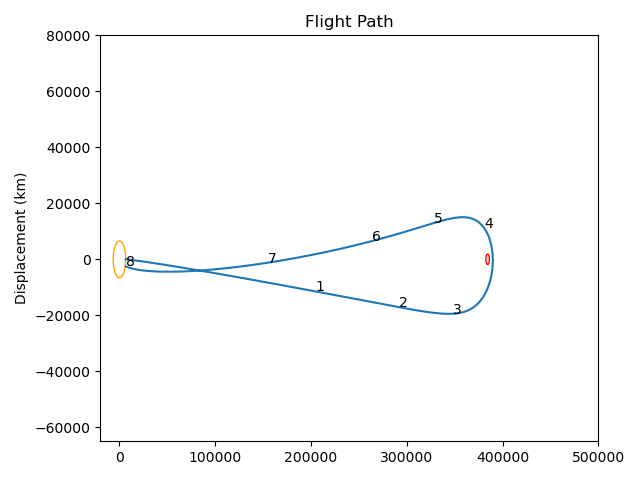
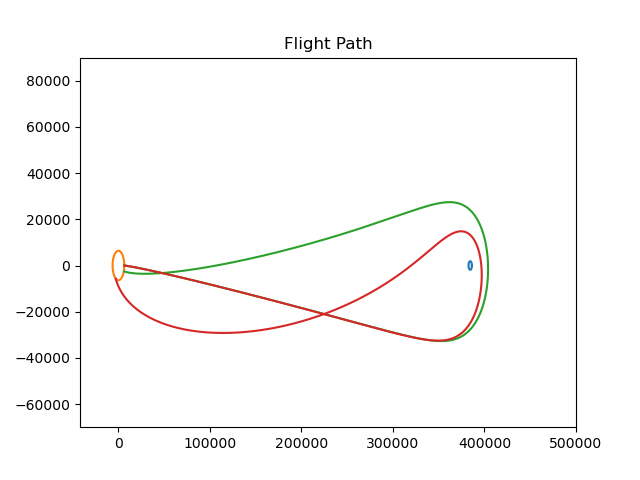
First Commit

diff --git a/part2.py b/part2.py
@@ -1,136 +1,158 @@
-import math
 import matplotlib.pyplot as plt
-
-from matplotlib import rcParams
-
-rcParams.update({'figure.autolayout': True})
+import numpy as np
 
 plt.dpi = 500
 
-G = 8.65e-13
-M_EARTH = 5.97e24
-M_MOON = 7.35e22
-D_ME = 384400
-R_MOON = 1737.1
-LAGRANGE_POINT = 346007.85
+constants = {
+    'GRAVITY': 8.65e-13,
+    'MASS_OF_EARTH': 5.97e24,
+    'MASS_OF_MOON': 7.35e22,
+    'DISTANCE_MOON_TO_EARTH': 384400,
+    'RADIUS_MOON': 1737.1,
+    'LAGRANGE_POINT': 346007.85,
+    'Gm_E': 5.16405000e12,
+    'Gm_M': 6.3577500e10,
+    'RADIUS_OF_EARTH': 6378}
 
 
 class Function:
-    def __init__(self, start_value_x, start_value_y, step_size, dydx_x, dydx_y, dydx_start_x, dydx_start_y,
-                 target_value_x, target_value_y):
-        self.start_value_x = start_value_x
-        self.start_value_y = start_value_y
+    def __init__(self, start_value, step_size, dydx, dydx_start, target_value):
+        self.start_value = start_value
         self.step_size = step_size
-        self.dydx_x = dydx_x
-        self.dydx_y = dydx_y
-        self.dydx_start_x = dydx_start_x
-        self.dydx_start_y = dydx_start_y
-        self.target_value_x = target_value_x
-        self.target_value_y = target_value_y
-
-        self.current_value_x = self.start_value_x
-        self.current_value_y = self.start_value_y
-
-        self.dydx_current_value_x = self.dydx_start_x
-        self.dydx_current_value_y = self.dydx_start_y
-
-        self.time_history = []
-        self.displacement_history_x = []
-        self.displacement_history_y = []
-        self.displacement_history_total = []
-        self.velocity_history = []
-        self.acceleration_history = []
-        self.max_displacement_x = 0
+        self.dydx = dydx
+        self.dydx_start = dydx_start
+        self.dydx_current_value = dydx_start
+        self.target_value = target_value
+        self.current_value = start_value
 
     def euler(self):
-        self.displacement_history_total.append(math.sqrt(self.current_value_x ** 2 + self.current_value_y ** 2))
-        self.current_value_x += self.step_size * self.dydx_current_value_x
-        self.current_value_y += self.step_size * self.dydx_current_value_y
+        self.current_value += self.step_size * self.dydx_current_value + 0.5 * (self.step_size ** 2) * self.dydx(
+            self.current_value)
+
+    # print(self.current_value)
 
     def velocity(self):
-        self.velocity_history.append(math.sqrt(self.dydx_current_value_x ** 2 + self.dydx_current_value_y ** 2))
-        self.acceleration_history.append(math.sqrt(
-            self.dydx_x(self.current_value_x, self.current_value_y) ** 2 + self.dydx_y(self.current_value_x,
-                                                                                       self.current_value_y) ** 2))
-        self.dydx_current_value_x += self.step_size * self.dydx_x(self.current_value_x, self.current_value_y)
-        self.dydx_current_value_y += self.step_size * self.dydx_y(self.current_value_x, self.current_value_y)
+        self.dydx_current_value += self.step_size * self.dydx(self.current_value)
 
     def target_in_range(self):
-        for i in range(250000):
-            self.displacement_history_x.append(self.current_value_x)
-            self.displacement_history_y.append(self.current_value_y)
-            if self.current_value_x > self.max_displacement_x:
-                self.max_displacement_x = self.current_value_x
-            if self.current_value_x <= self.target_value_x and self.current_value_y <= self.target_value_y and self.max_displacement_x >= D_ME:
-                return self.current_value_x, self.current_value_y, i / 1000, self.dydx_current_value_x, self.dydx_current_value_y
-            self.time_history.append(i / 1000)
+        for i in range(1000000):
+            if self.current_value >= self.target_value:
+                return self.current_value, i / 1000, self.dydx_current_value, self.target_value, self.dydx(
+                    self.current_value)
             self.euler()
             self.velocity()
-        # return -1
+        return -1
 
 
-def acceleration_x(x, y):
-    return ((-G * M_EARTH * x) / (
-            math.sqrt((x ** 2) + (y ** 2)) * ((x ** 2) + (y ** 2)))) + (((D_ME - x) *
-                                                                         G * M_MOON) / (math.sqrt(
-        (D_ME - x) ** 2 + (y ** 2)) * (((D_ME - x) ** 2) + (y ** 2))))
+class VFunction:
+    def __init__(self, start_valueX, start_valueY, step_size, d2ydx2_X, d2ydx2_Y, dydx_startX, dydx_startY,
+                 secondOrder):
+        # self.start_valueX = start_valueX
+        # self.start_valueY = start_valueY
+        self.start_value = np.array([start_valueX, start_valueY], dtype='float16')
+        self.step_size = step_size
+        self.d2ydx2_X = d2ydx2_X
+        self.d2ydx2_Y = d2ydx2_Y
+        self.dydx_startX = dydx_startX
+        self.dydx_startY = dydx_startY
+        self.dydx_current_valueX = dydx_startX
+        self.dydx_current_valueY = dydx_startY
+        self.current_valueX = self.start_value[0]
+        self.current_valueY = self.start_value[1]
+        self.points = np.array([[0.0, self.start_value[0], self.start_value[1]]])
+        self.secondOrder = secondOrder
+
+    def v_euler(self):
+        second_order_x = 0
+        second_order_y = 0
+        if self.secondOrder > 0:
+            second_order_x = 0.5 * self.d2ydx2_X(self.current_valueX, self.current_valueY) * self.step_size ** 2
+            second_order_y = 0.5 * self.d2ydx2_Y(self.current_valueX, self.current_valueY) * self.step_size ** 2
+
+        self.current_valueX += self.step_size * self.dydx_current_valueX + second_order_x
+        self.current_valueY += self.step_size * self.dydx_current_valueY + second_order_y
+        # print(self.current_value)
+
+    def v_velocity(self):
+        self.dydx_current_valueX += self.step_size * self.d2ydx2_X(self.current_valueX, self.current_valueY)
+        self.dydx_current_valueY += self.step_size * self.d2ydx2_Y(self.current_valueX, self.current_valueY)
+
+    def target_in_range(self):
+        for i in range(500000):
+            if self.current_valueX ** 2 + self.current_valueY ** 2 < 6370 ** 2:
+                return self.current_valueX, i / 1000
+            if i / 10 - np.modf(i / 10)[1] < 1 / 10:
+                # self.points = np.insert(self.points,,[i/1000,self.current_valueX,self.current_valueY],axis=0)
+                self.points = np.concatenate((self.points, [[i / 1000, self.current_valueX, self.current_valueY]]),
+                                             axis=0)
+            # print(self.points)
+            # print(self.current_valueX)
+            self.v_euler()
+            self.v_velocity()
+        return -1
 
 
-def acceleration_y(x, y):
-    return ((-G * M_EARTH * y) / (
-            math.sqrt(x ** 2 + y ** 2) * (x ** 2 + y ** 2))) + ((y *
-                                                                 -G * M_MOON) / (
-                                                                        math.sqrt((D_ME - x) ** 2 + (y ** 2)) * (
-                                                                        ((D_ME - x) ** 2) + (y ** 2))))
+def acceleration(x): return (constants['Gm_M'] / ((constants['DISTANCE_MOON_TO_EARTH'] - x) ** 2)
+                             - constants['Gm_E'] / (x ** 2))
+
+
+def acceleration_x(x, y): return constants['Gm_M'] * (constants['DISTANCE_MOON_TO_EARTH'] - x) / \
+                                 pow((constants['DISTANCE_MOON_TO_EARTH'] - x) ** 2 + y ** 2, 3 / 2) \
+                                 - constants['Gm_E'] * x / pow(x ** 2 + y ** 2, 3 / 2)
+
+
+def acceleration_y(x, y): return -constants['Gm_M'] * y / pow((constants['DISTANCE_MOON_TO_EARTH'] - x) ** 2 + y ** 2,
+                                                              3 / 2) \
+                                 - constants['Gm_E'] * y / pow(x ** 2 + y ** 2, 3 / 2)
 
 
 if __name__ == '__main__':
-    f = Function(6563, 0, 0.001, acceleration_x, acceleration_y, 39230, -1275, 6563, 0)
-    print(f.target_in_range())
-
-    plt.figure(1)
-    plt.plot(f.displacement_history_x, f.displacement_history_y)
-    circle1 = plt.Circle((0, 0), 6563, color='orange', fill=False)
-    circle2 = plt.Circle((D_ME, 0), 1849, color='r', fill=False)
-    plt.xlim(-20000, 500000)
-    plt.ylim(-65000, 80000)
-    plt.ylabel('Displacement (km)')
-    plt.ylabel('Displacement (km)')
+    GravityFunction = Function(6371, 0.001, acceleration, 40000,
+                               (constants['DISTANCE_MOON_TO_EARTH'] - constants['RADIUS_MOON']))
+    print(GravityFunction.target_in_range())
+    SlingShot = VFunction(6563, 0, 0.001, acceleration_x, acceleration_y, 39210.0, -2100.0, 0)
+    SlingShotSecondOrder = VFunction(6563, 0, 0.001, acceleration_x, acceleration_y, 39210.0, -2100.0, 1)
+    # SlingShot2 = VFunction(6563,0,0.001,acceleration_x,acceleration_y,39280.0,-2310.0,0)
+    # SlingShot3 = VFunction(6563,0,0.001,acceleration_x,acceleration_y,39215.0,-2210.0,0)
+    # SlingShot4 = VFunction(6563.0,0,0.001,acceleration_x,acceleration_y,39297.0,-2097.0,0)
+    # SlingShot5 = VFunction(6563.0,0,0.001,acceleration_x,acceleration_y,50000.0,-2000.0,0)
+    print(SlingShot.target_in_range())
+    print(SlingShotSecondOrder.target_in_range())
+    # print(SlingShot2.target_in_range())
+    # print(SlingShot3.target_in_range())
+    # print(SlingShot4.target_in_range())
+    # print(SlingShot5.target_in_range())
+    float_formatter = "{:.3f}".format
+    np.set_printoptions(formatter={'float_kind': float_formatter})
+    # for x in range(len(SlingShot4.points)):
+    #    print(SlingShot4.points[x])
+    x = SlingShot.points[:, 1]
+    y = SlingShot.points[:, 2]
+    x2o = SlingShotSecondOrder.points[:, 1]
+    y2o = SlingShotSecondOrder.points[:, 2]
+    # x2 = SlingShot2.points[:,1]
+    # y2 = SlingShot2.points[:,2]
+    # x3 = SlingShot3.points[:,1]
+    # y3 = SlingShot3.points[:,2]
+    # x4 = SlingShot4.points[:,1]
+    # y4 = SlingShot4.points[:,2]
+    # x5 = SlingShot5.points[:,1]
+    # y5 = SlingShot5.points[:,2]
+    t = np.linspace(0, 6.3, 100)
+    Ex = 6378 * np.cos(t)
+    Ey = 6378 * np.sin(t)
+    Mx = constants['DISTANCE_MOON_TO_EARTH'] + 1849 * np.cos(t)
+    My = 1849 * np.sin(t)
+    plt.plot(Mx, My)
+    plt.plot(Ex, Ey)
+    plt.plot(x, y)
+    plt.plot(x2o, y2o)
+    # plt.plot(x2,y2)
+    # plt.plot(x3,y3)
+    # plt.plot(x4,y4)
+    # plt.plot(x5,y5)
+    plt.ylim([-70000, 90000])
+    plt.xlim([-42000, 500000])
     plt.title('Flight Path')
-
-    plt.annotate('1', xy=(204996.8327792941, -11495.180125773899))
-    plt.annotate('2', xy=(292228.0650928426, -17148.717065768455))
-    plt.annotate('3', xy=(347977.8642659397, -19444.202147591983))
-    plt.annotate('4', xy=(380949.7141145375, 11086.064512151816))
-    plt.annotate('5', xy=(328582.2212321744, 12989.859997015128))
-    plt.annotate('6', xy=(263400.4594528887, 6491.854550348502))
-    plt.annotate('7', xy=(154465.5669197549, -1233.7123160741326))
-    plt.annotate('8', xy=(6546.932540818372, -2545.504565159628))
-
-    plt.gca().add_patch(circle1)
-    plt.gca().add_patch(circle2)
     plt.savefig('./Plots/FlightPath.png')
     plt.show()
-
-    plt.figure(2)
-    plt.plot(f.time_history, f.velocity_history)
-    plt.xlabel('Time (h)')
-    plt.ylabel('Velocity (km/h)')
-    plt.title('Velocity2D')
-    plt.savefig('./Plots/Velocity2D.png', bbox_inches='tight')
-    plt.show()
-
-    plt.figure(3)
-    plt.plot(f.time_history, f.acceleration_history)
-    plt.xlabel('Time (h)')
-    plt.ylabel('Acceleration (km/h^2)')
-    plt.title('Acceleration2D')
-    plt.savefig('./Plots/Acceleration2D.png', bbox_inches='tight')
-    plt.show()
-
-    plt.figure(4)
-    plt.plot(f.time_history, f.displacement_history_total)
-    plt.xlabel('Time (h)')
-    plt.ylabel('Displacement (km)')
-    plt.title('Displacement2D')
-    plt.savefig('./Plots/Displacement2D.png', bbox_inches='tight')
